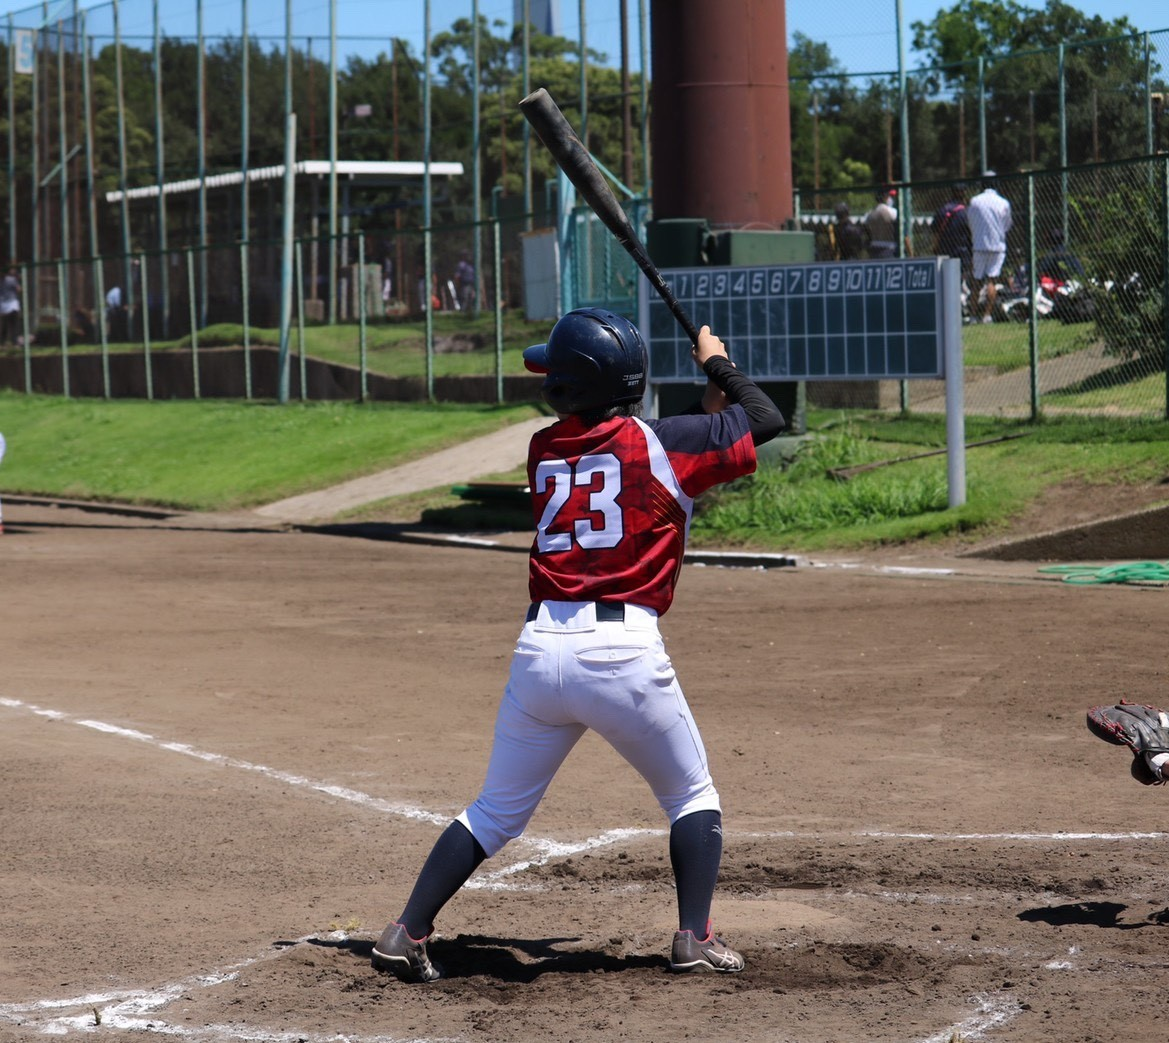
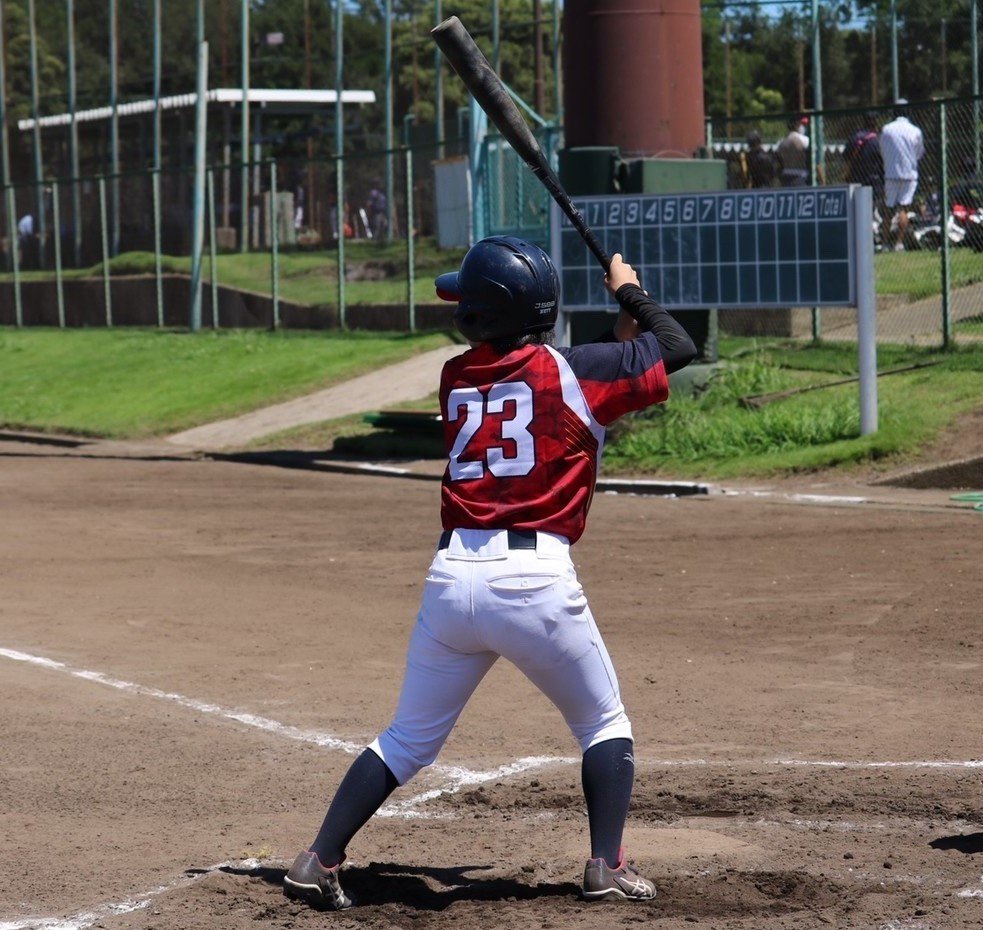
add member

diff --git a/member.html b/member.html
@@ -660,6 +660,41 @@
             <tbody>
                 <tr class="align-bottom">
                     <td rowspan="6">
+                        <img src="img/member/saho.jpg" class="img-fluid">
+                    </td>
+                    <td rowspan="6">
+                        <img src="img/member/saho2.jpeg" class="img-fluid">
+                    </td>
+                    <th scope="row">名前</th>
+                    <td>SAHORI</td>
+                </tr>
+                <tr>
+                    <th>ポジション</th>
+                    <td>内・補</td>
+                </tr>
+                <tr>
+                    <th>投打</th>
+                    <td>右・右</td>
+                </tr>
+                <tr>
+                    <th>野球歴</th>
+                    <td>小中高11年間</td>
+                </tr>
+                <tr>
+                    <th>経験スポーツ</th>
+                    <td>ソフトボール少しだけ</td>
+                </tr>
+                <tr>
+                    <th>意気込み</th>
+                    <td>楽しむ！</td>
+                </tr>
+            </tbody>
+        </table>
+        <br>
+        <table class="table table-sm">
+            <tbody>
+                <tr class="align-bottom">
+                    <td rowspan="6">
                         <img src="img/member/tommy.jpeg" class="img-fluid">
                     </td>
                     <td rowspan="6">
